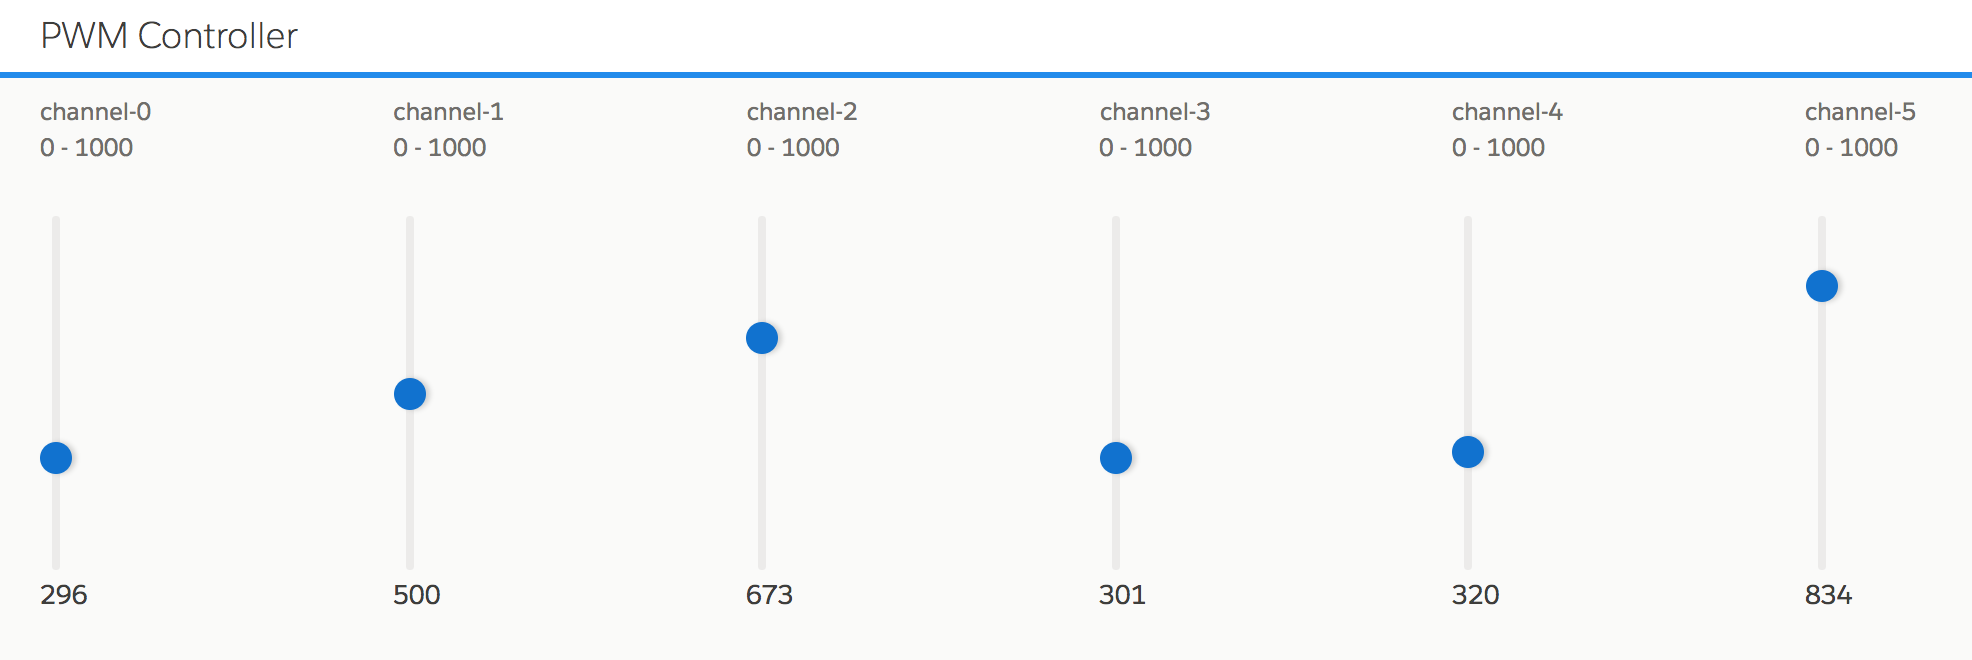
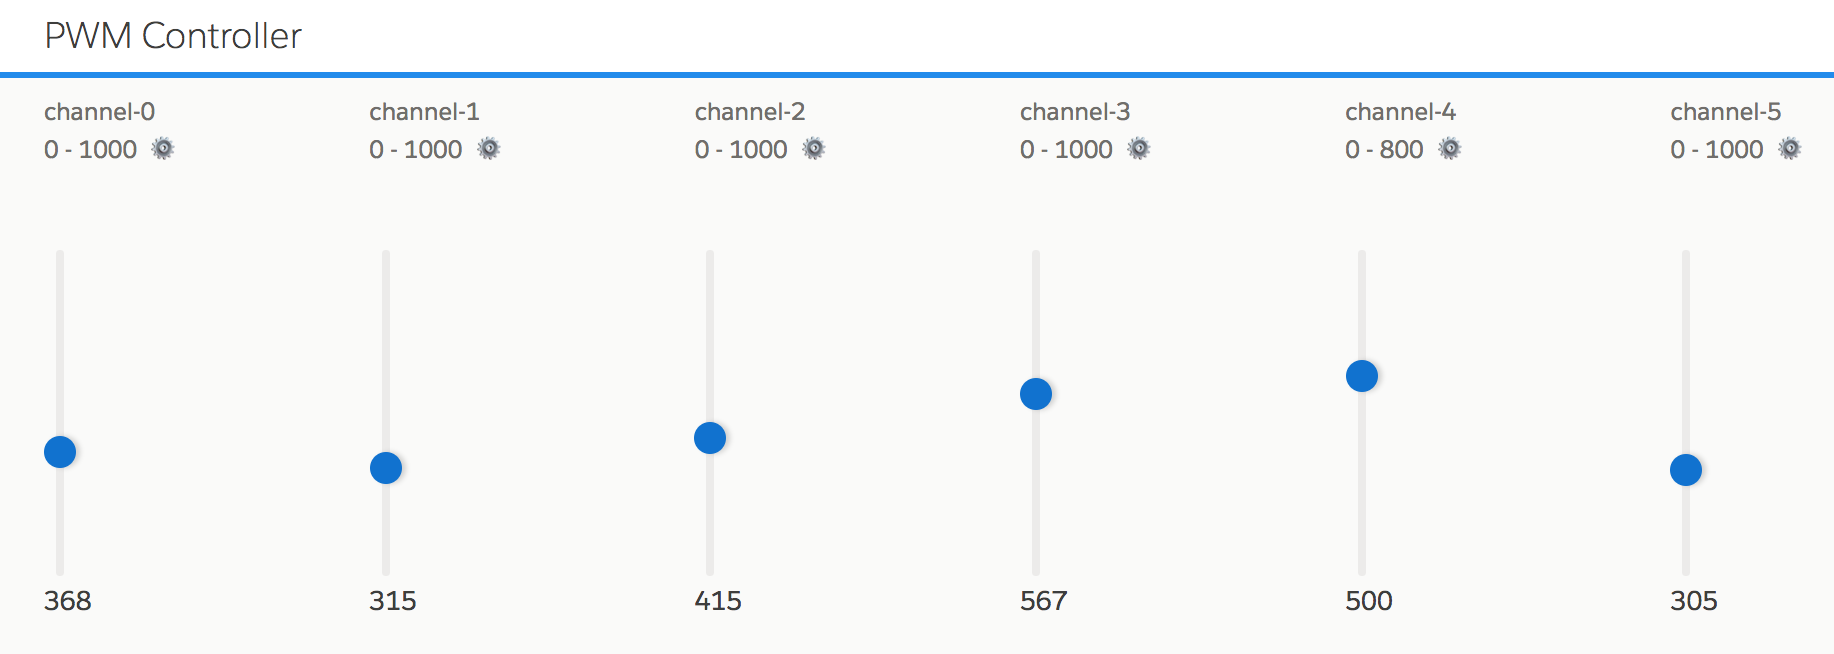
Added option to configure PWM range

diff --git a/client/components/slider.js b/client/components/slider.js
@@ -1,20 +1,45 @@
 import React, { Component } from 'react';
 
 export default class Slider extends Component {
+  
+  constructor(props) {
+    super(props);
+    this.state = {
+      min: props.min,
+      max: props.max,
+    };
+  }
+
+  editRange = () => {
+    let min = parseInt(prompt('New minimum value.\nLeave blank to keep current value: '+ this.state.min), 10);
+    if (isNaN(min)) {
+      min = this.state.min;
+    }
+    let max = parseInt(prompt('New maximum value.\nLeave blank to keep current value: '+ this.state.max), 10);
+    if (isNaN(max)) {
+      max = this.state.max;
+    }
+    this.setState({ min, max });
+  }
+  
   render() {
+    const { state, props } = this;
     return (
       <div className='slds-form-element'>
-        <label className='slds-form-element__label' htmlFor={this.props.id}>
+        <label className='slds-form-element__label' htmlFor={props.id}>
           <span className='slds-slider-label'>
-            <span className='slds-slider-label__label'>{this.props.label}</span>
-            <span className='slds-slider-label__range'>{this.props.min} - {this.props.max}</span>
+            <span className='slds-slider-label__label'>{props.label}</span>
+            <span className='slds-slider-label__range'>
+              {state.min} - {state.max}
+              <button onClick={this.editRange} className="icon">&#9881;</button>
+            </span>
           </span>
         </label>
         <div className='slds-form-element__control'>
           <div className='slds-slider slds-slider_vertical'>
-            <input type='range' id={this.props.id} className='slds-slider__range'
-              min={this.props.min} max={this.props.max} value={this.props.value} step='1' onChange={this.props.onChange}/>
-            <span className='slds-slider__value' aria-hidden='true'>{this.props.value}</span>
+            <input type='range' id={props.id} className='slds-slider__range'
+              min={state.min} max={state.max} value={props.value} step='1' onChange={props.onChange}/>
+            <span className='slds-slider__value' aria-hidden='true'>{props.value}</span>
           </div>
         </div>
       </div>

diff --git a/client/components/app.js b/client/components/app.js
@@ -54,7 +54,7 @@ export default class App extends Component {
           <div className='slds-grid slds-wrap slds-m-around_large'>
             {this.state.channels.map(channel => (
               <div className='slds-col slds-size_2-of-12' key={channel.id}>
-                <Slider id={channel.id} label={channel.id} min='0' max='1000' step='10' value={channel.value} onChange={this.onChangeChannel}/>
+                <Slider id={channel.id} label={channel.id} min='0' max='1000' value={channel.value} onChange={this.onChangeChannel}/>
               </div>
             ))}
           </div>

diff --git a/public/index.html b/public/index.html
@@ -4,7 +4,8 @@
 	<meta charset="utf-8">
 	<title>PWM Controller</title>
 	<meta name="author" content="Philippe Ozil">
-	<link rel="stylesheet" type="text/css" href="assets/styles/salesforce-lightning-design-system.min.css" />
+  <link rel="stylesheet" type="text/css" href="assets/styles/salesforce-lightning-design-system.min.css" />
+  <link rel="stylesheet" type="text/css" href="main.css" />
 </head>
 <body>
 	<div id="react-root"></div>

diff --git a/public/main.css b/public/main.css
@@ -1,0 +1,4 @@
+button.icon {
+  border: unset;
+  background: unset;
+}
